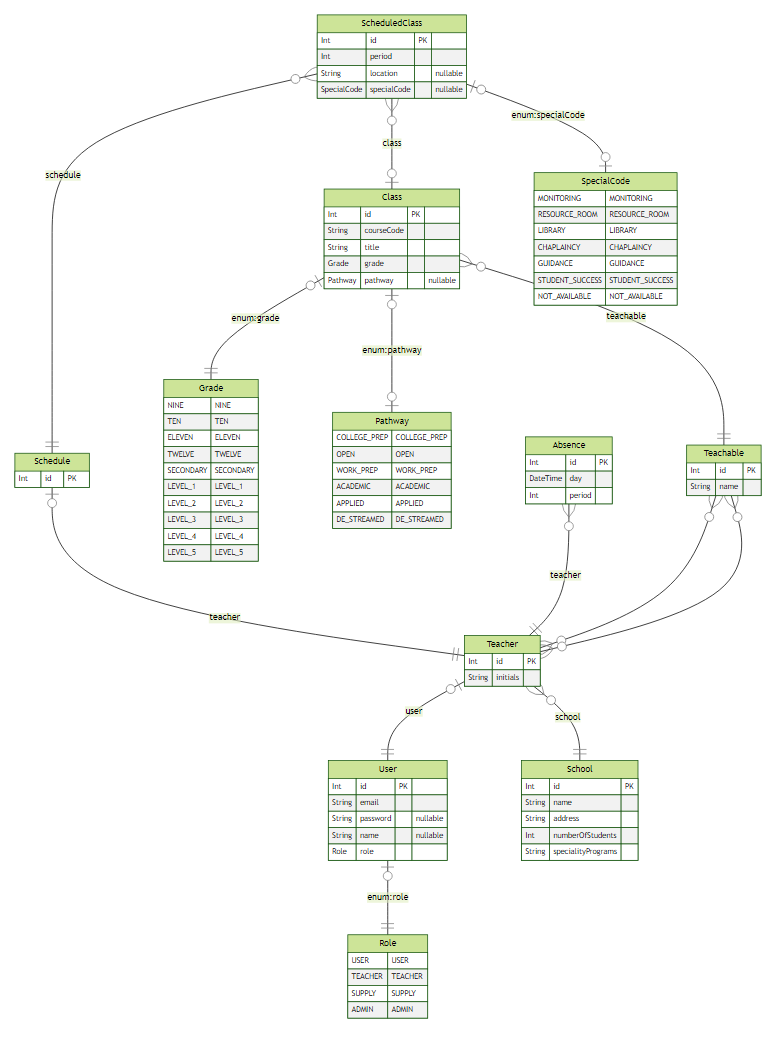
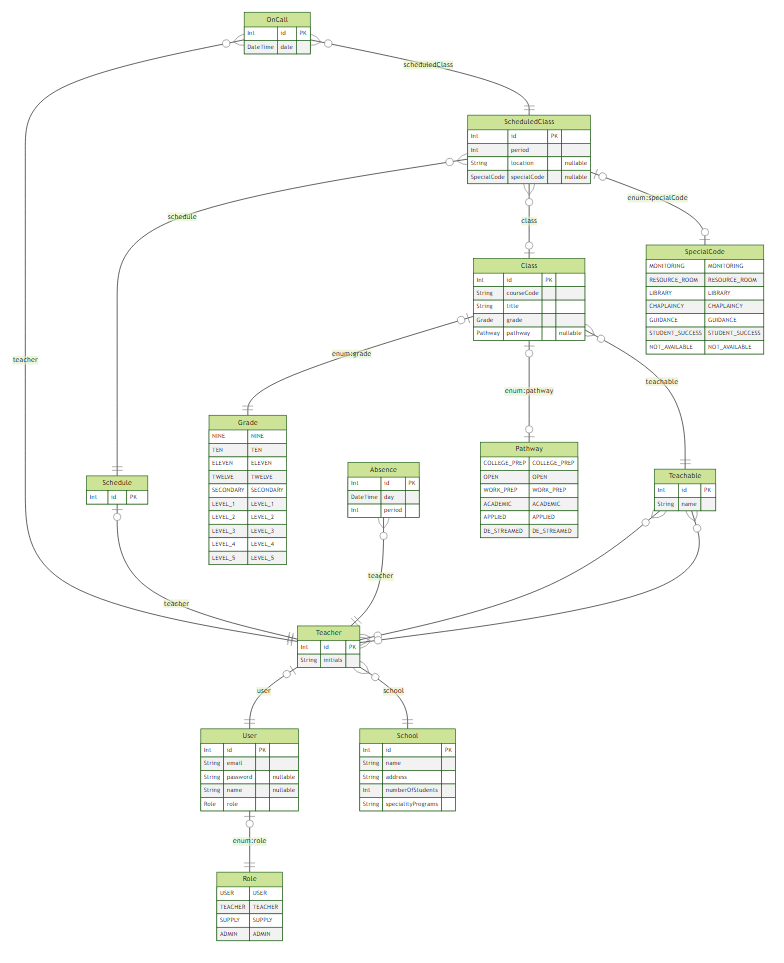
Created oncall table

diff --git a/server/routes/assignOnCalls.js b/server/routes/assignOnCalls.js
@@ -19,7 +19,8 @@ function filterUsingPeriods (course, listOfTeachers) {
 //filter the teachers using the teachables 
 async function filterUsingTeachables (course, listOfTeachers) {
 
-    const teachable = await prisma.Class.findFirst( {
+    const newTeacherArray = [];
+    let teachable = await prisma.Class.findFirst( {
         where: {
             id: course.classId
         },
@@ -27,25 +28,40 @@ async function filterUsingTeachables (course, listOfTeachers) {
             teachable: true
         }
     });
+    //teachable of course : {}
+    teachable = teachable.teachable;
 
-    for (let x in listOfTeachers) {
+  
+    //get teachables of all the teacher in the list: [ {}, {},...]
+    for (let x of listOfTeachers) {
 
-        const temp = await prisma.Teacher.findFirst ({
+        let temp = await prisma.Teacher.findFirst ({
             where: {
-                id: listOfTeachers[x].teacherId
+                id: x.teacherId
             },
-
             select: {
                 teachable: true
             }
         });
+        //temp = array of teachable objects
+        temp = temp.teachable;
+        
+        //loop through all the teachable in temp
+        for (let y of temp) {
 
-        console.log(temp);
-        listOfTeachers[x].teachable = temp;
-
+            //if we found the teachable we are looking for in the array
+            if (y.id === teachable.id) {
+                //add the teacher to the new array
+                newTeacherArray.push(x);
+            }
+        }
+        
     }
-   
+    return newTeacherArray;  
 }
+
+
+
 
 module.exports.filterUsingPeriods = filterUsingPeriods;
 module.exports.filterUsingTeachables = filterUsingTeachables;

diff --git a/server/routes/assignOnCallsTest.test.js b/server/routes/assignOnCallsTest.test.js
@@ -9,9 +9,11 @@ test ('filter using periods', async function () {
     let date = new Date ("2022-02-15");
     const teachers = await getAvailability(date);
     const classes = await getClassesToBeCovered(date);
-    const filteredTeachers = await filterUsingTeachables(classes[0], teachers);
-   // console.log(classes);
-    //console.log(filterUsingPeriods(classes[0], teachers));
+    console.log(classes);
+    const filterUsingPeriod = filterUsingPeriods(classes[0], teachers);
+
+    const filteredTeachers = await filterUsingTeachables(classes[0], filterUsingPeriod);
+ 
     console.log(filteredTeachers);
 
 
